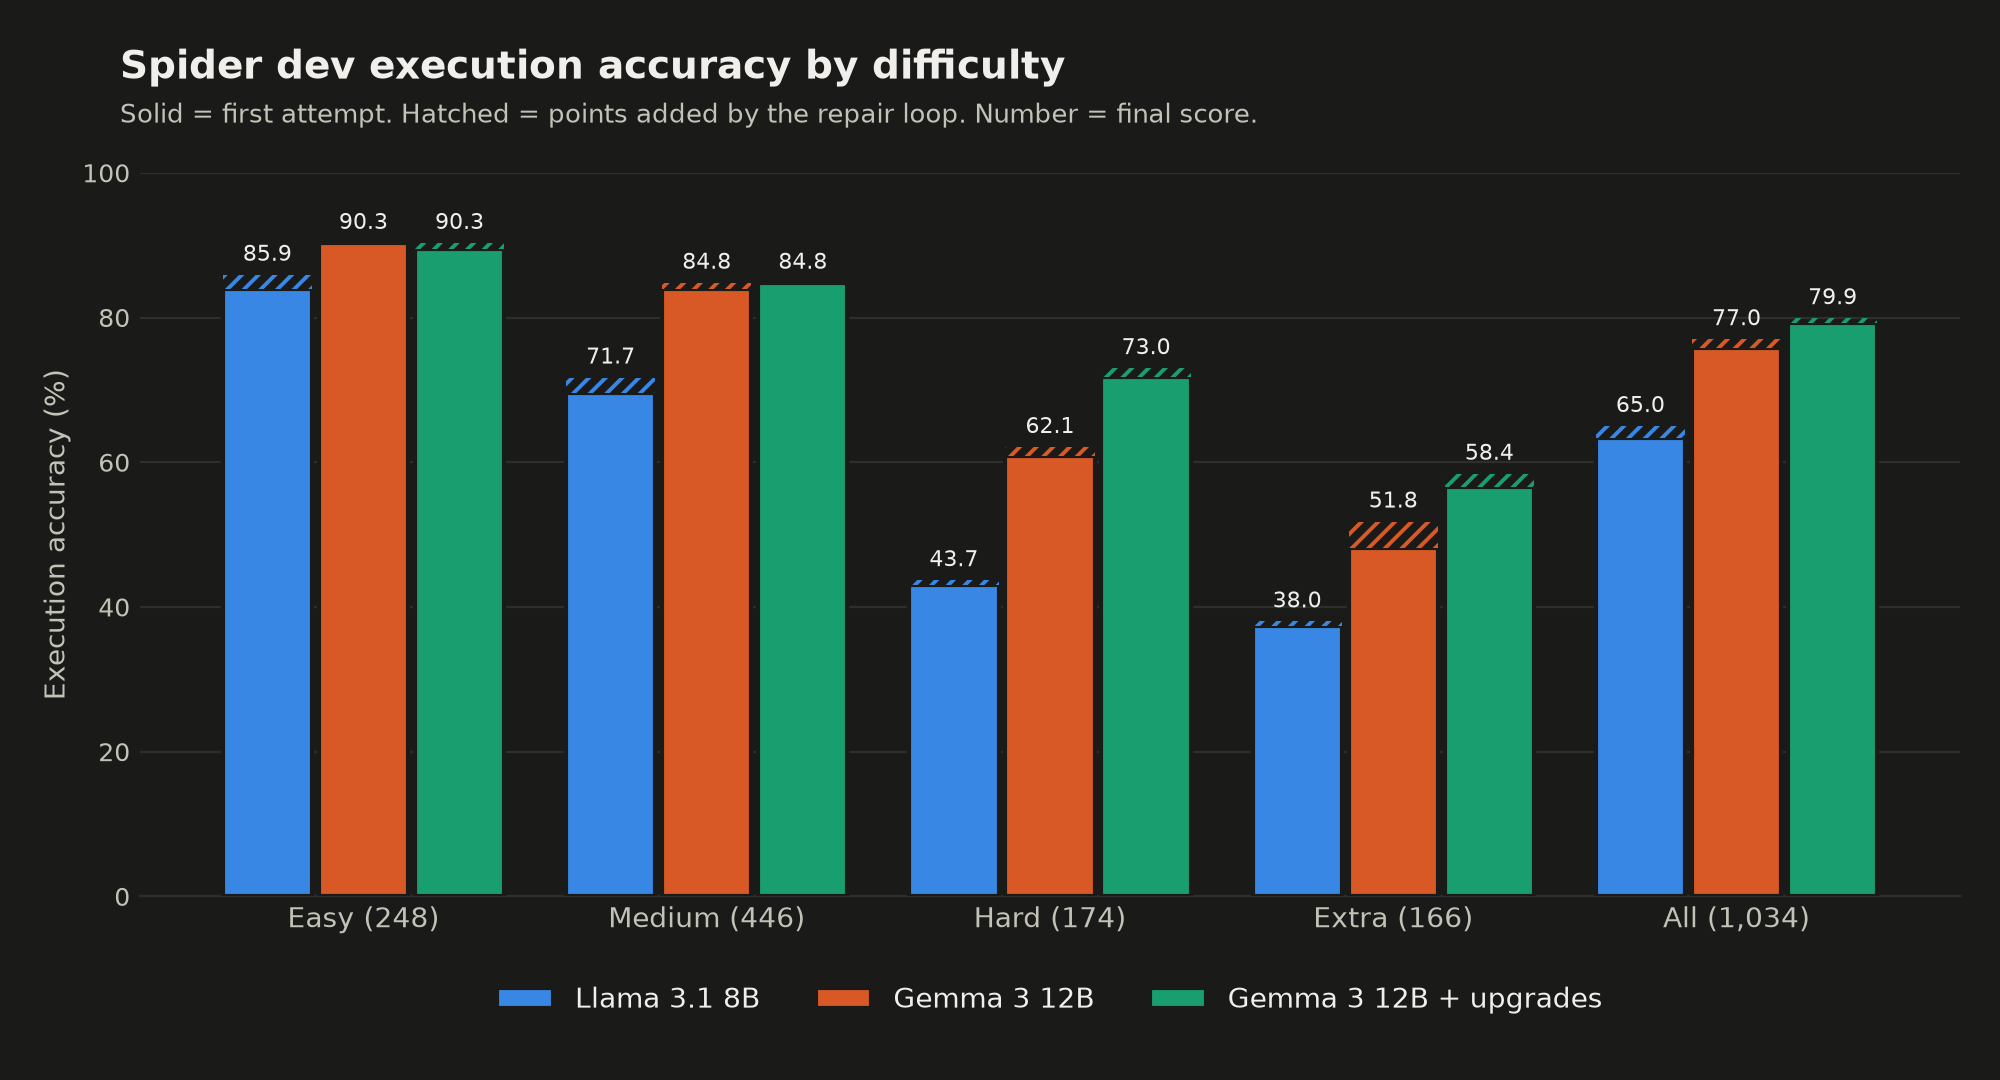
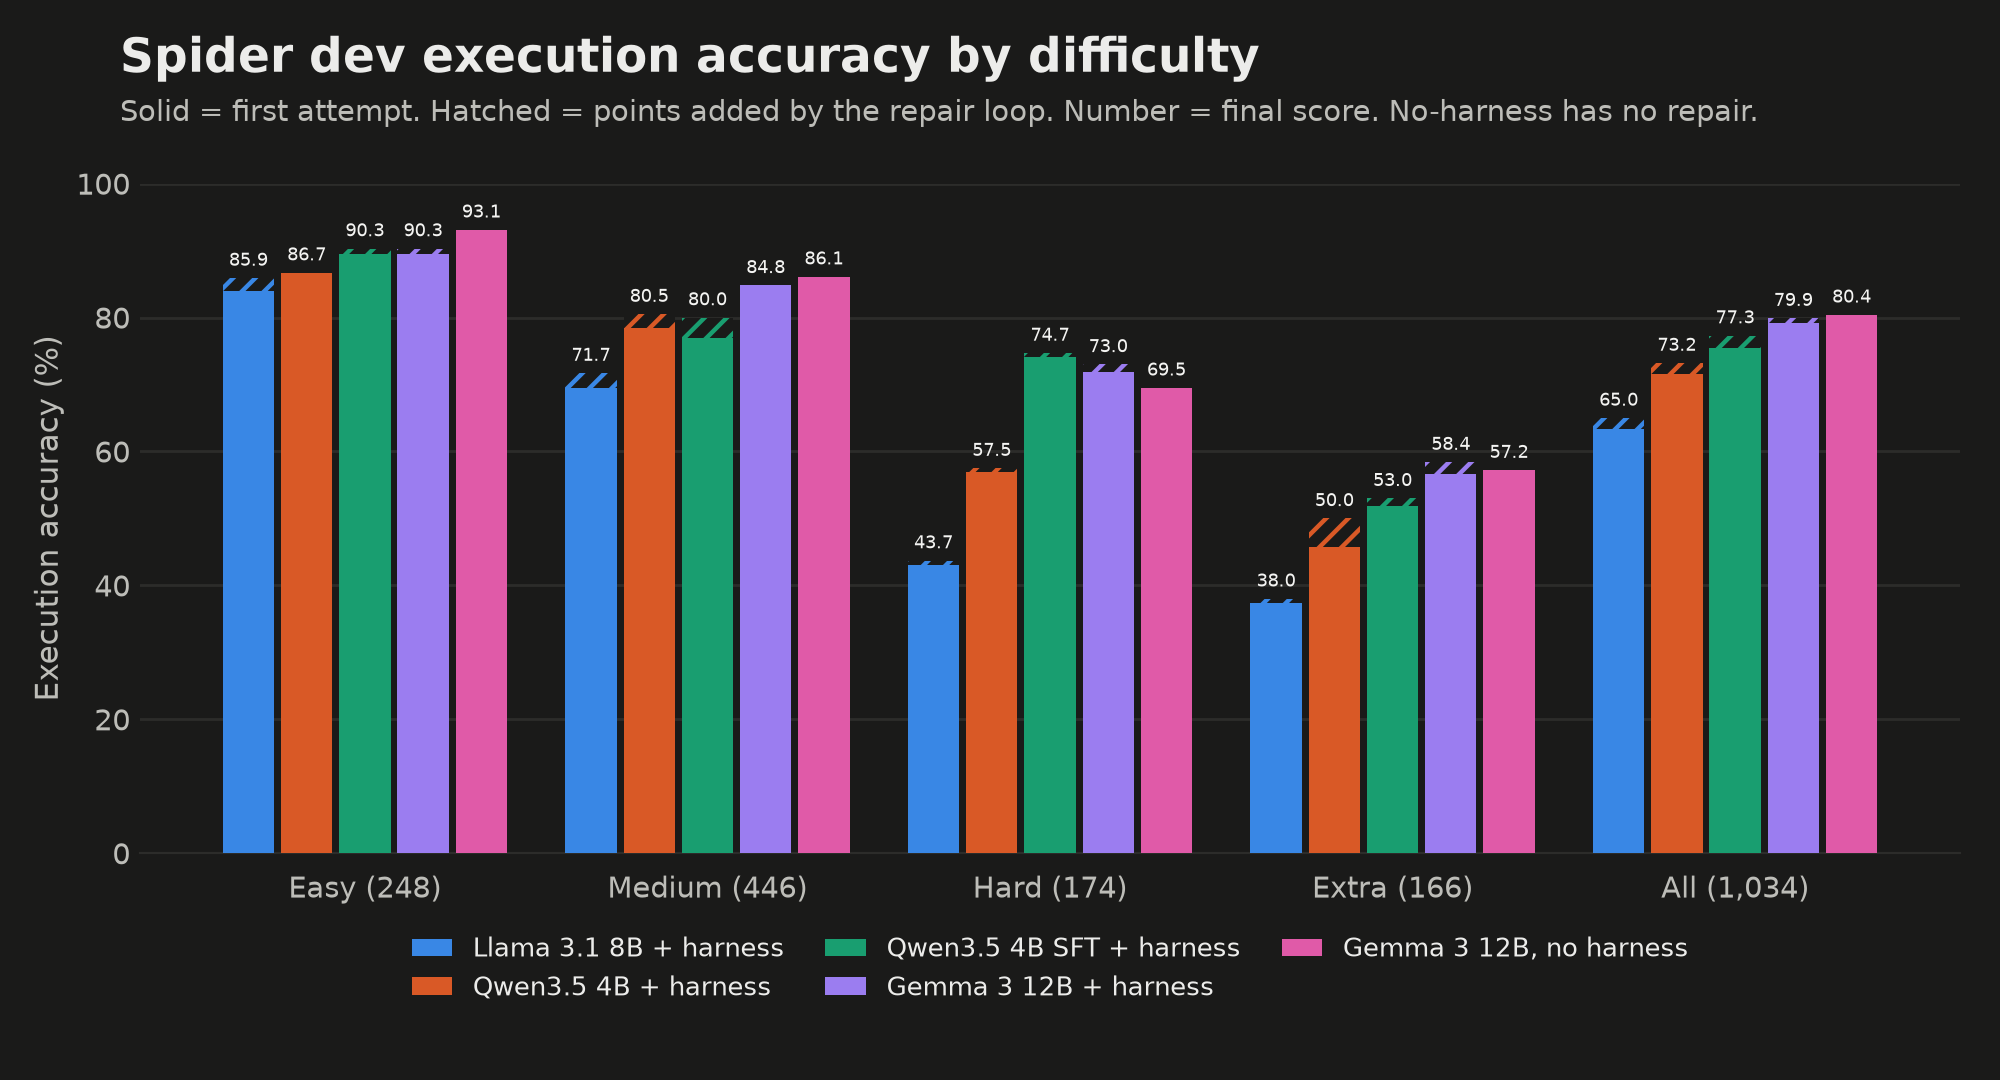
Add benchmark and training write-ups, update charts

diff --git a/docs/training.md b/docs/training.md
@@ -1,0 +1,151 @@
+# Training
+
+How the fine-tuned model [mehul79/Text2SQL-4B-Model](https://huggingface.co/mehul79/Text2SQL-4B-Model)
+was trained, and how to train your own. The code is in `training/`:
+
+- `build_traces.py` turns Spider train into tool-calling conversations.
+- `train_sft.py` LoRA-trains a model on them.
+
+## How the published model was trained
+
+**Base model:** `Qwen/Qwen3.5-4B`, with thinking off.
+
+**Data.** Each Spider train question becomes one conversation with the same three tool calls:
+
+```
+system      You are a text-to-SQL agent working on a SQLite database. First call get_schema ...
+user        How many singers do we have?
+assistant   get_schema()
+tool        CREATE TABLE singer (...) ...
+assistant   execute_sql(query="SELECT count(*) FROM singer")
+tool        [(6,)]
+assistant   submit_answer(query="SELECT count(*) FROM singer")
+```
+
+The SQL is Spider's gold query, and the tool results are real: the gold query is run against the
+database. Gold queries that fail to run are dropped. 200 conversations are held out for validation (random split,
+seed 42), leaving 6,797 for training.
+
+**What the model learns from.** Loss is computed only on the assistant turns (the three tool calls),
+not on the system prompt, the question, or the tool results. Each assistant turn starts with an empty
+`<think></think>` block, so the model learns to answer with thinking off.
+
+**Settings:**
+
+| Setting | Value |
+|---|---|
+| Method | LoRA in bf16, with [Unsloth](https://github.com/unslothai/unsloth) |
+| Rank / alpha / dropout | 64 / 128 / 0 |
+| Target modules | q, k, v, o, gate, up, down projections |
+| Learning rate | 1e-4, cosine schedule, 3% warmup |
+| Batch size | 4 per step x 4 gradient accumulation = 16 |
+| Epochs | 2 (850 optimizer steps) |
+| Max sequence length | 4096 tokens (longer examples are dropped) |
+| Optimizer | AdamW, seed 42 |
+| Eval / save | every 100 / 200 steps, last 2 checkpoints kept |
+
+**How it went:**
+
+| | Value |
+|---|---|
+| Train loss | 0.227 at the start, 0.009 at the end |
+| Validation loss | 0.035 at step 100, 0.0165 at the end |
+| Training time | about 75 minutes |
+| Peak GPU memory | 13.7 GB |
+
+The validation set comes from Spider train, so a low validation loss mostly shows the model learned the
+format. The real test is Spider dev, on databases it never saw: 77.3% in the harness, against 73.2% for
+the base model (see [benchmark.md](benchmark.md)).
+
+**Versions used:** `unsloth` 2026.10.9, `peft` 0.21.2, `trl` 1.15, `transformers` 4.57 or later,
+`torch` 2.14.1, Python 3.11 or later.
+
+## Train your own
+
+Run everything from the repo root.
+
+**1. Set up a training environment.** Training needs a GPU and its own packages, separate from the app's
+`uv` environment:
+
+```bash
+python -m venv .venv-train
+source .venv-train/bin/activate
+pip install -r training/requirements-train.txt
+```
+
+**2. Get Spider.** This uses the app environment (it needs `requests`):
+
+```bash
+uv run python -m backend.eval.download_spider
+```
+
+**3. Build the training data.**
+
+```bash
+python training/build_traces.py              # writes data/sft_train.jsonl and data/sft_val.jsonl
+python training/build_traces.py --limit 50   # or a small set first, to check it works
+```
+
+**4. Check what will be trained.** This prints the tokens of one example that the loss is computed on, and
+exits without training. You should see the three tool calls and nothing else:
+
+```bash
+python training/train_sft.py --show
+```
+
+**5. Train.** `--model` takes a Hugging Face model ID (downloaded on first use) or a local folder:
+
+```bash
+CUDA_VISIBLE_DEVICES=0 python training/train_sft.py                              # Qwen/Qwen3.5-4B, default settings
+CUDA_VISIBLE_DEVICES=0 python training/train_sft.py --model /path/to/my-model    # a local model
+CUDA_VISIBLE_DEVICES=0 python training/train_sft.py --limit 200 --epochs 1       # a quick test run
+```
+
+The adapter is saved to `outputs/qwen35-4b-spider-sft/` (change with `--out`). Loss is logged to
+`train_log.jsonl` there, and to TensorBoard (`tensorboard --logdir outputs/qwen35-4b-spider-sft/tb`).
+If training stops, add `--resume` to continue from the last checkpoint.
+
+Useful options: `--epochs`, `--lr`, `--rank` (alpha is always 2 x rank), `--bs`, `--accum`,
+`--max-len`, and `--report wandb`.
+
+**Using a different base model.** `train_sft.py` finds the assistant turns by matching Qwen's chat
+template (`<|im_start|>assistant` followed by an empty think block). A model with a different template
+needs that pattern (`SPAN_RE` at the top of the file) changed, or `--show` will print nothing to train on.
+
+**6. Serve and benchmark it.** The published model was merged into the base weights first, then served
+with vLLM. The merge snippet below is a sketch of that step and hasn't been re-run since the original
+merge script was removed; Qwen3.5 is a vision-language model, so the base loads with the image-text class:
+
+```python
+from peft import PeftModel
+from transformers import AutoModelForImageTextToText, AutoTokenizer
+
+base = AutoModelForImageTextToText.from_pretrained("Qwen/Qwen3.5-4B", torch_dtype="bfloat16")
+merged = PeftModel.from_pretrained(base, "outputs/qwen35-4b-spider-sft").merge_and_unload()
+merged.save_pretrained("models/my-text2sql")
+AutoTokenizer.from_pretrained("outputs/qwen35-4b-spider-sft").save_pretrained("models/my-text2sql")
+```
+
+```bash
+pip install -r training/requirements-serve.txt
+vllm serve models/my-text2sql --served-model-name text2sql-sft \
+  --max-model-len 16384 --language-model-only \
+  --enable-auto-tool-choice --tool-call-parser qwen3_coder \
+  --reasoning-parser qwen3 --default-chat-template-kwargs '{"enable_thinking": false}'
+```
+
+Then set `MODEL_NAME=text2sql-sft` and `BASE_URL=http://127.0.0.1:8000/v1` in `.env` and run the
+benchmark as described in [benchmark.md](benchmark.md#reproduce).
+
+## Hardware
+
+| | What the published run used | Minimum |
+|---|---|---|
+| GPU | one 48 GB GPU | one GPU with 16 GB+ and bf16 support (Ampere or newer, such as RTX 3090/4090, A10, L4, A100) |
+| GPU memory used | 13.7 GB peak | lower with `--bs 2 --accum 8` (same effective batch) |
+| Time | about 75 minutes for 2 epochs | longer on smaller GPUs |
+| Disk | | about 10 GB for the base model, 0.4 GB per checkpoint, 1.8 GB for Spider, 8 GB per merged model |
+| RAM | | 32 GB recommended for merging |
+
+Serving the merged 4B model with vLLM needs about 10 GB of GPU memory for the weights, plus room for the
+KV cache.

diff --git a/docs/benchmark.md b/docs/benchmark.md
@@ -1,0 +1,115 @@
+# Benchmark
+
+Execution accuracy on the [Spider](https://yale-lily.github.io/spider) dev set: 1,034 questions over
+20 SQLite databases. A prediction counts as correct when it returns the same rows as the gold query.
+Scoring uses Spider's official evaluator, vendored unmodified in `backend/eval/spider_scorer/`, run
+against the standard Spider databases (`data/spider/database`).
+
+<picture>
+  <source srcset="benchmark-dark.png" media="(prefers-color-scheme: dark)">
+  <img alt="Spider dev execution accuracy by difficulty for five setups; first attempts solid, points added by the repair loop hatched" src="benchmark-light.png">
+</picture>
+
+## Setups
+
+| Setup | What it is |
+|---|---|
+| **No harness** | One prompt (the `CREATE TABLE` statements and the question), one reply. The SQL is taken from the reply's code block. Nothing is validated or run before scoring. `backend/eval/run_no_harness.py` |
+| **Harness** | The agent's LangGraph graph, pointed at the Spider SQLite file: richer schema, forced `SQLResponse` tool call, SQL guard, read-only execution, result check, and up to 3 repairs. `backend/eval/run_harness.py` |
+| **First attempt** | The harness's first SQL, from the same run, with the repairs removed |
+
+## Results
+
+With and without the harness, final answers (repair on for harness rows):
+
+| Model | Setup | Easy (248) | Medium (446) | Hard (174) | Extra (166) | **All (1,034)** |
+|---|---|---|---|---|---|---|
+| Llama 3.1 8B Instruct | No harness | not run | not run | not run | not run | not run |
+| Llama 3.1 8B Instruct | Harness | 85.9 | 71.7 | 43.7 | 38.0 | **65.0** |
+| Qwen3.5-4B-Base | No harness | 69.8 | 63.2 | 46.0 | 23.5 | **55.5** |
+| Qwen3.5-4B-Base | Harness | 86.7 | 80.5 | 57.5 | 50.0 | **73.2** |
+| Qwen3.5-4B-SFT | No harness | 89.9 | 84.1 | 69.5 | 51.2 | **77.8** |
+| Qwen3.5-4B-SFT | Harness | 90.3 | 80.0 | 74.7 | 53.0 | **77.3** |
+| Gemma 3 12B IT | No harness | 93.1 | 86.1 | 69.5 | 57.2 | **80.4** |
+| Gemma 3 12B IT | Harness | 90.3 | 84.8 | 73.0 | 58.4 | **79.9** |
+
+First attempts only, from the same harness runs:
+
+| Model | Easy | Medium | Hard | Extra | All | Repair adds |
+|---|---|---|---|---|---|---|
+| Llama 3.1 8B Instruct | 83.9 | 69.5 | 43.1 | 37.3 | 63.3 | +1.7 |
+| Qwen3.5-4B-Base | 86.7 | 78.5 | 56.9 | 45.8 | 71.6 | +1.6 |
+| Qwen3.5-4B-SFT | 89.5 | 76.9 | 74.1 | 51.8 | 75.4 | +1.9 |
+| Gemma 3 12B IT | 89.5 | 84.8 | 71.8 | 56.6 | 79.2 | +0.7 |
+
+Run details:
+
+| Model | Served by | Temp | Needed repair | Recovered | Gave up | Median per question | Cost |
+|---|---|---|---|---|---|---|---|
+| Llama 3.1 8B Instruct | OpenRouter | 0.2 | 96 | 50 | 47 | 1.3s | $0.11 |
+| Qwen3.5-4B-Base | local vLLM | 0 | 116 | 101 | 18 | 1.5s | local; 1.06M in / 205k out tokens |
+| Qwen3.5-4B-SFT | local vLLM | 0 | 139 | 95 | 51 | 1.6s | local; 1.15M in / 162k out tokens |
+| Gemma 3 12B IT | OpenRouter | 0 | 102 | 95 | 7 | 5.8s | about $0.07 |
+
+"Gave up" counts every question with no answer at the end, including model output errors (no tool call,
+or one that doesn't fit `SQLResponse`). A question with no answer is scored as wrong, since the app
+returns no rows for it.
+
+## What moved the score, stage by stage
+
+**1. The starting point (Llama 3.1 8B, 65.0).** The first harness version. Most of Llama's repairs were unknown
+columns (88 of 96). Repair got 50 of them to run, but only about 18 of those returned the right rows, so
+repair added just +1.7.
+
+**2. The current harness (Qwen3.5-4B-Base, 73.2).** A smaller model scores 8 points higher than Llama,
+mostly on medium, hard and extra questions. Both the model and the harness changed (richer schema,
+"did you mean" hints, a result check), so the gain can't be split between them. Join paths and sample
+values help most on multi-table questions.
+
+**3. Fine-tuning on Spider (Qwen3.5-4B-SFT, 77.3).** +4.1 over the base model, almost all on hard questions
+(+17.2). Training on Spider taught the model Spider's query style. It needs more repairs (139 against 116),
+partly because it double-quotes strings, which the SQL guard reads as column names.
+
+**4. From 55.5 to 77.3: harness plus fine-tuning.** Without the harness, the base model scores only 55.5.
+The harness alone lifts it to 73.2 (+17.7), mostly on extra (+26.5) and medium (+17.3) questions, where it
+needs the join paths and sample values to pick the right tables. Fine-tuning then adds another +4.1, mostly
+on hard questions. Fine-tuning also fixes most of the gap on its own: the SFT model scores 77.8 without the
+harness, so the two give a similar gain, and stacking them adds little.
+
+**Repair is a small gain everywhere (+0.7 to +1.9).** It fixes queries that fail, not queries that run but
+return the wrong rows, and most wrong answers are the second kind.
+
+
+## Reproduce
+
+```bash
+uv sync
+uv run python -m backend.eval.download_spider          # data/spider (checksum-verified)
+uv run python -c "import nltk; nltk.download('punkt', 'data/nltk_data'); nltk.download('punkt_tab', 'data/nltk_data')"
+```
+
+Point `BASE_URL`, `LLM_API_KEY`, and `MODEL_NAME` in `.env` at any OpenAI-compatible server. The Spider
+eval never connects to Postgres, but `READONLY_DB_USER`, `READONLY_DB_PASSWORD`, and `POSTGRES_DB` must be
+set (placeholders are fine) because the database module reads them at import.
+
+```bash
+uv run python -m backend.eval.run_harness --oracle --limit 20   # no LLM: checks data, files, and scoring
+uv run python -m backend.eval.run_harness --max-repairs 0       # harness, repair off
+uv run python -m backend.eval.run_harness                       # harness, repair on
+uv run python -m backend.eval.run_no_harness                    # no harness
+```
+
+Results go to `data/eval/<run>/`: `results.jsonl`, `gold.sql`, `pred.sql`, and `score.txt`. A harness run
+resumes where it stopped.
+
+A local vLLM server needs a tool-call parser, because the harness forces a named tool call:
+
+```bash
+vllm serve Qwen/Qwen3.5-4B --served-model-name text2sql-base \
+  --max-model-len 16384 --language-model-only \
+  --enable-auto-tool-choice --tool-call-parser qwen3_coder \
+  --reasoning-parser qwen3 --default-chat-template-kwargs '{"enable_thinking": false}'
+```
+
+The fine-tuned adapter is [mehul79/Text2SQL-4B-Model](https://huggingface.co/mehul79/Text2SQL-4B-Model);
+`training/` has the code to rebuild its data and retrain it.
